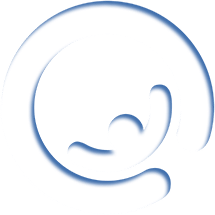
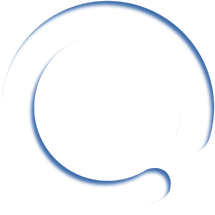
feat: 使用clip-path实现进度环效果

diff --git a/src/pages/My/MyProgress.jsx b/src/pages/My/MyProgress.jsx
@@ -1,33 +1,42 @@
-import ProgressCircle from '@/components/ProgressCircle';
+import { useState, useEffect } from 'react';
 
-// import { ProgressCircle } from 'antd-mobile';
+import progressStyles from './progress.module.less';
+
 import styles from './index.module.less';
 
 const MyProgress = ({ limitedNum }) => {
+  const [progressClass, setProgressClass] = useState(0);
+  useEffect(() => {
+    let currentNum = 0;
+    const interval = setInterval(() => {
+      // 检查是否达到限制数
+      if (currentNum < limitedNum) {
+        // 增加进度后缀数字
+        currentNum = currentNum + 1;
+        setProgressClass(currentNum);
+      } else {
+        clearInterval(interval); // 达到限制数，清除计时器
+      }
+    }, 300);
+
+    return () => clearInterval(interval); // 在组件卸载时清除计时器
+  }, [limitedNum]);
   return (
     <div className={styles.norem_progressBar}>
-      <img className={styles.progress0} src="/imgs/my/progress0.png" />
-      <div className={styles.progressCircle}>
-        <ProgressCircle percent={(limitedNum / 12) * 100} />
+      {/* 使用clip-path实现进度环效果 */}
+      <div
+        className={`${styles.progress100Box} ${
+          progressStyles['clip' + progressClass]
+        }`}
+      >
+        <img
+          className={`${styles.progress100}`}
+          src="/imgs/my/progress100.png"
+        />
       </div>
+      <img className={styles.progress0} src="/imgs/my/progress0_2.png" />
       <div className={styles.tips}>{limitedNum}/12</div>
       <img className={styles.icon} src="/imgs/my/progress.png" />
-      {/* <ProgressCircle
-    percent={(limitedNum / 12) * 100}
-    style={{
-      '--size': '80px',
-      '--track-width': '12px',
-      '--track-color': 'transparent',
-      '--fill-color': '#3687d1',
-      // 3687d1
-      // transparent
-    }}
-  >
-  </ProgressCircle> */}
-      {/* <img
-    className={styles.progress100}
-    src="/imgs/my/progress100.png"
-  /> */}
     </div>
   );
 };

diff --git a/src/pages/My/progress.module.less b/src/pages/My/progress.module.less
@@ -1,0 +1,51 @@
+.clip0 {
+  clip-path: polygon(100% 78%, 100% 78%, 100% 78%, 100% 100%, 50% 50%, 50% 50%);
+}
+
+.clip1 {
+  clip-path: polygon(100% 48%, 100% 48%, 100% 48%, 100% 100%, 50% 50%, 50% 50%);
+}
+
+.clip2 {
+  clip-path: polygon(100% 18%, 100% 18%, 100% 18%, 100% 100%, 50% 50%, 50% 50%);
+}
+
+.clip3 {
+  clip-path: polygon(90% 0%, 100% 0%, 100% 0%, 100% 100%, 50% 50%, 50% 50%);
+}
+
+.clip4 {
+  clip-path: polygon(60% 0%, 60% 0%, 100% 0%, 100% 100%, 50% 50%, 50% 50%);
+}
+
+.clip5 {
+  clip-path: polygon(30% 0%, 30% 0%, 100% 0%, 100% 100%, 50% 50%, 50% 50%);
+}
+
+.clip6 {
+  clip-path: polygon(0% 0%, 0% 0%, 100% 0%, 100% 100%, 50% 50%, 50% 50%);
+}
+
+.clip7 {
+  clip-path: polygon(0% 30%, 0% 0%, 100% 0%, 100% 100%, 50% 50%, 50% 50%);
+}
+
+.clip8 {
+  clip-path: polygon(0% 60%, 0% 0%, 100% 0%, 100% 100%, 50% 50%, 50% 50%);
+}
+
+.clip9 {
+  clip-path: polygon(0% 80%, 0% 0%, 100% 0%, 100% 100%, 50% 50%, 40% 60%);
+}
+
+.clip10 {
+  clip-path: polygon(0% 100%, 0% 0%, 100% 0%, 100% 100%, 50% 50%, 45% 65%);
+}
+
+.clip11 {
+  clip-path: polygon(0% 100%, 0% 0%, 100% 0%, 100% 100%, 50% 50%, 60% 70%);
+}
+
+.clip12 {
+  clip-path: polygon(0% 100%, 0% 0%, 100% 0%, 100% 100%, 50% 50%, 75% 75%);
+}

diff --git a/src/pages/My/index.module.less b/src/pages/My/index.module.less
@@ -198,11 +198,23 @@
     height: 100%;
   }
 
-  .progress100 {
+  .progress100Box {
     position: absolute;
-    z-index: 1;
+    z-index: 5;
     width: 100%;
     height: 100%;
+    transition: clip-path 0.3s cubic-bezier(0, 0, 1, 1);
+    transform: translate(-0%, -0%) scale(4);
+  }
+
+  .progress100 {
+    position: absolute;
+    top: 50%;
+    left: 50%;
+    z-index: 5;
+    width: 100%;
+    height: 100%;
+    transform: translate(-50%, -50%) scale(0.25);
   }
 
   .tips {
